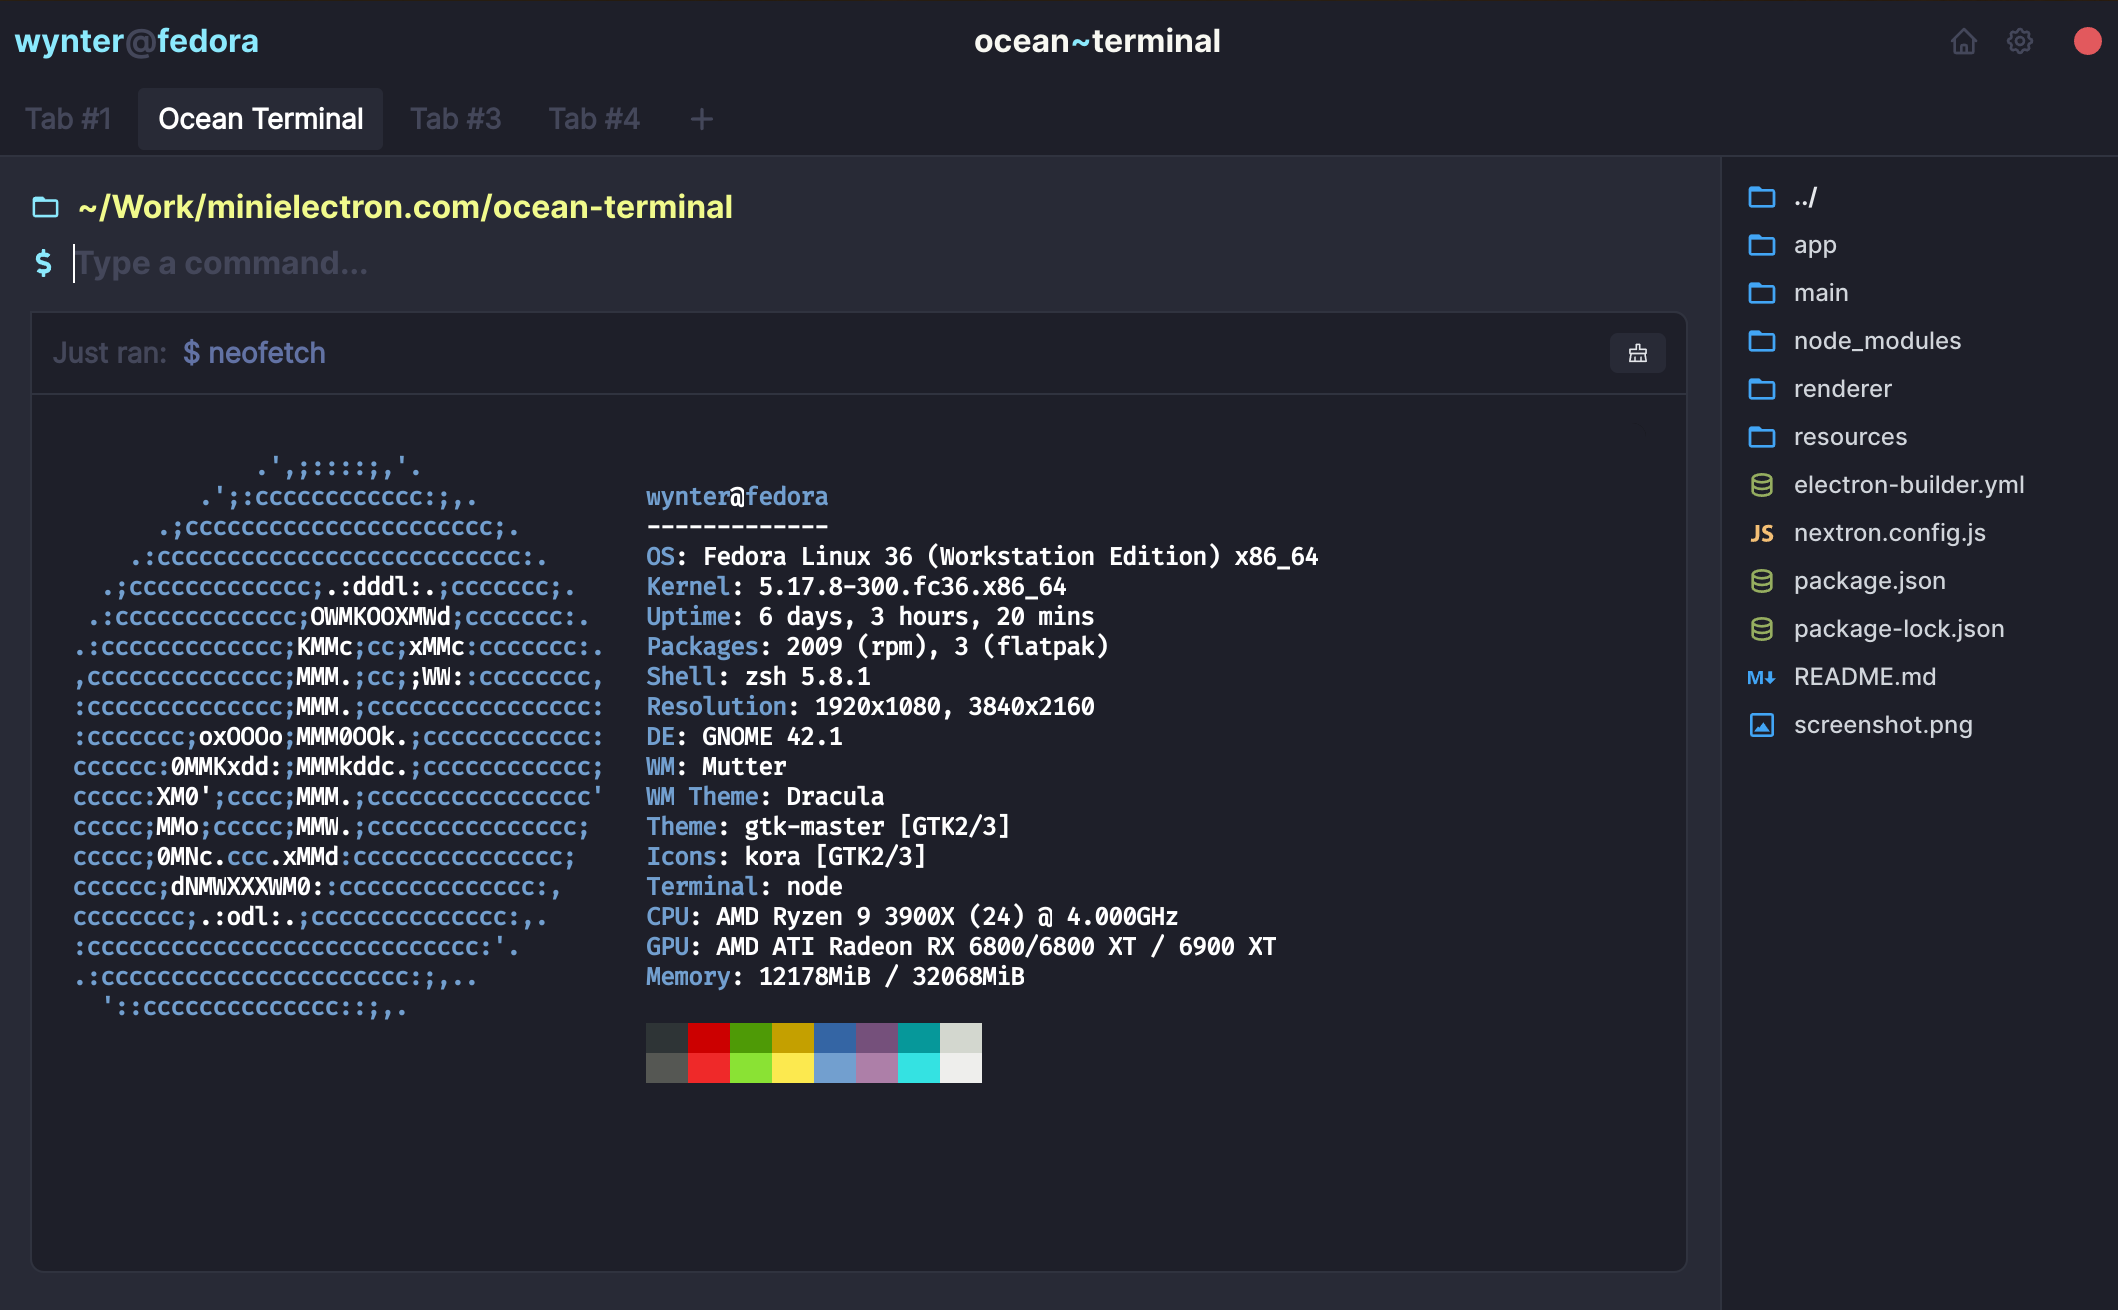
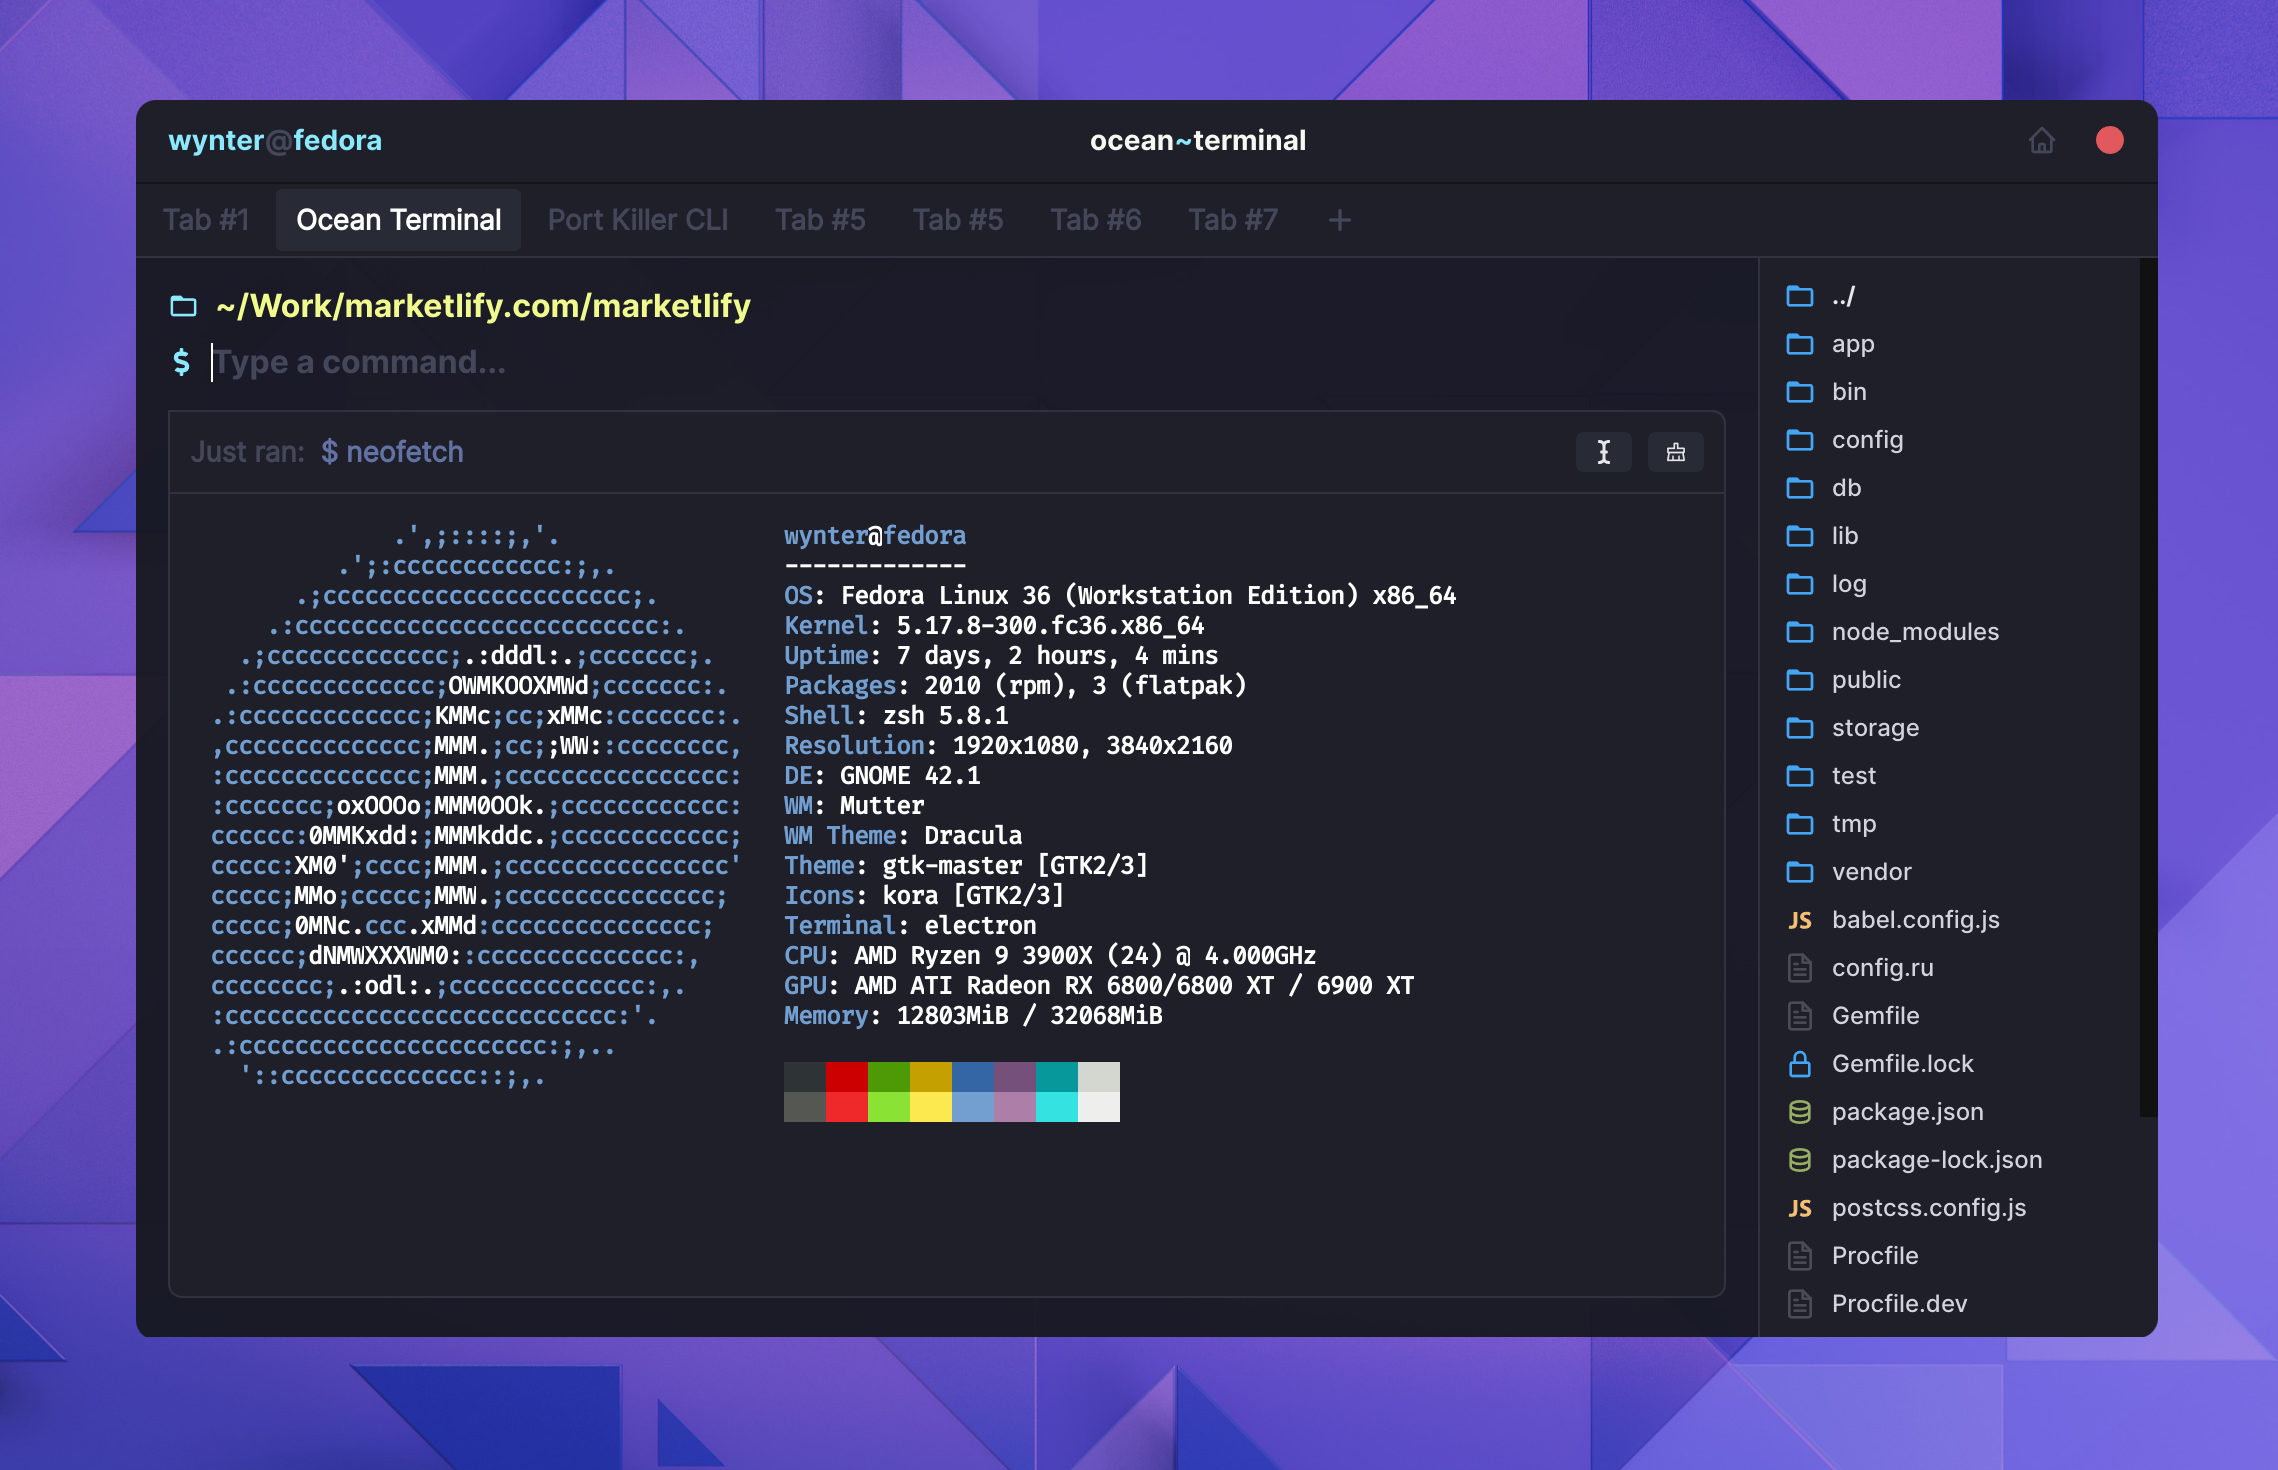
update ui

diff --git a/renderer/pages/tab/[id].jsx b/renderer/pages/tab/[id].jsx
@@ -43,21 +43,23 @@ function Tab() {
     let testTerm = xtermRef.current.terminal
     let testFitAddon = fitAddon
 
-    window.electron.ipcRenderer.on('reply-spawn-pipe', (event, result) => {
-      const systemInfo = window.electron.ipcRenderer.sendSync(
-        'get-username-hostname'
-      )
-      const sysInfo = `[${systemInfo.username}@${systemInfo.hostname}`
+    window.electron.ipcRenderer.send(
+      'terminal.keystroke',
+      `export PS1="$ "\r`,
+      `export PS1="$ "`,
+      !interactive
+    )
 
+    window.electron.ipcRenderer.on('reply-spawn-pipe', (event, result) => {
       let output = result.data
         .replaceAll(`${result.currentCommand}\r\n`, '')
         .replace(`${result.currentCommand}`, '')
 
-      if (output.includes(sysInfo) && result.currentInteractive) {
-        output = output.split(sysInfo)[0]
+      if (output.includes(`$`) && result.currentInteractive) {
+        output = output.replace(`$`, '')
       }
 
-      testTerm.write(output)
+      testTerm.writeUtf8(output)
       testFitAddon.fit()
 
       const id = window.electron.ipcRenderer.sendSync('get-current-tab-id')
@@ -155,10 +157,11 @@ function Tab() {
 
   const setInteractiveMode = () => {
     setInteractive(!interactive)
+    xtermRef.current.terminal.focus()
   }
 
   return (
-    <div className="p-4 pt-3">
+    <div className="p-4 pt-3" id="body">
       <Toolbar />
       <TabNav
         tabs={tabs}
@@ -177,30 +180,30 @@ function Tab() {
         }}
       />
       <CommandLine
+        className={classNames('', {
+          'interactive-mode': interactive,
+        })}
         path={path}
         submitCommand={(event) => {
           submitCommand(event)
         }}
       />
-      <div
-        id="terminalWrapper"
-        className={classNames('relative', {
-          'interactive-mode': interactive,
-        })}
-      >
-        {command && (
-          <TerminalToolbar
-            command={command}
-            interactive={interactive}
-            cleanup={() => {
-              cleanup()
-            }}
-            setInteractiveMode={() => {
-              setInteractiveMode()
-            }}
-          />
-        )}
-        <div className="terminalWrapper">
+      <div id="terminalWrapper" className="relative">
+        <TerminalToolbar
+          command={command}
+          interactive={interactive}
+          cleanup={() => {
+            cleanup()
+          }}
+          setInteractiveMode={() => {
+            setInteractiveMode()
+          }}
+        />
+        <div
+          className={classNames('terminalWrapper', {
+            'interactive-mode': interactive,
+          })}
+        >
           <XTerm
             className="terminal"
             ref={xtermRef}

diff --git a/renderer/styles/globals.css b/renderer/styles/globals.css
@@ -68,17 +68,22 @@ a {
   cursor: default;
 }
 
+html {
+  background: none;
+}
+
 body {
   font-family: InterRegular, -apple-system, BlinkMacSystemFont, 'Segoe UI',
     'Roboto', 'Oxygen', 'Ubuntu', 'Inter', 'Fira Sans', 'Droid Sans',
     'Helvetica Neue', sans-serif;
   -webkit-font-smoothing: antialiased;
   -moz-osx-font-smoothing: grayscale;
-  background: #282a36;
+  background: none;
   color: #f8f8f2;
   padding-top: 79px;
   padding-right: 200px;
   overflow: hidden;
+  border-radius: 14px;
 }
 
 .hover-bg-dracula-semidark:hover {
@@ -130,6 +135,10 @@ body {
   display: block !important;
 }
 
+.interactive-mode.command-line {
+  display: none !important;
+}
+
 #home {
   background: url('/images/home.jpg') no-repeat;
 
@@ -152,12 +161,14 @@ body {
 
 #toolbar {
   background: #1e1f29;
-  border-bottom: 1px solid #1e1f29;
+  border-bottom: 1px solid #1e1f2a;
   position: fixed;
   top: 0;
   left: 0;
   z-index: 99999999;
   width: 100%;
+  border-top-left-radius: 10px;
+  border-top-right-radius: 10px;
 }
 
 #infoPanel-headline {
@@ -166,7 +177,7 @@ body {
 
 #tablist {
   background: #1e1f29;
-  /* border-top: 1px solid #14151a; */
+  border-top: 1px solid #14151a;
   border-bottom: 1px solid #30333f;
   position: fixed;
   top: 41px;
@@ -201,16 +212,22 @@ body {
   z-index: 99999;
   color: #fff;
   overflow-x: hidden;
+  border-bottom-right-radius: 10px;
 }
 
 .terminal {
   width: 100%;
   height: calc(100vh - 195px);
-
   color: #f8f8f2;
   font-size: 14px;
   line-height: 17px;
   white-space: pre;
+}
+
+#body {
+  background: #16171ff1;
+  height: calc(100vh - 78px);
+  border-bottom-left-radius: 10px;
 }
 
 .terminalWrapper {
@@ -229,6 +246,14 @@ body {
   padding-bottom: 40px;
   border: none;
   /* overflow: hidden; */
+}
+
+.terminalWrapper.interactive-mode {
+  height: calc(100vh - 135px) !important;
+}
+
+.terminalWrapper.interactive-mode .terminal {
+  height: calc(100vh - 165px) !important;
 }
 
 #terminalReminder {

diff --git a/renderer/components/CommandLine.jsx b/renderer/components/CommandLine.jsx
@@ -2,7 +2,7 @@ import { useState } from 'react'
 import { MdFolderOpen } from 'react-icons/md'
 import { FaDollarSign } from 'react-icons/fa'
 
-const CommandLine = ({ path, submitCommand }) => {
+const CommandLine = ({ path, submitCommand, className }) => {
   const [inputValue, setInputValue] = useState('')
 
   return (
@@ -13,13 +13,13 @@ const CommandLine = ({ path, submitCommand }) => {
           ~{path}
         </span>
       </h3>
-      <div className="flex items-center font-bold">
+      <div className={`${className} command-line flex items-center font-bold`}>
         <FaDollarSign className="text-dracula-cyan text-sm mr-1" />
         <input
           autoFocus={true}
           placeholder="Type a command..."
           className="w-full bg-gray-900 text-white p-1 font-bold border-transparent"
-          style={{ backgroundColor: '#282a36' }}
+          style={{ backgroundColor: 'rgba(0,0,0,0)' }}
           onKeyPress={(event) => {
             if (event.key === 'Enter') {
               if (event.target.value.trim() !== '') {

diff --git a/renderer/components/Toolbar.jsx b/renderer/components/Toolbar.jsx
@@ -15,15 +15,15 @@ const Toolbar = ({}) => {
 
   return (
     <div id="toolbar">
-      <div className="flex items-center justify-between px-2">
-        <div className="font-bold">
+      <div className="flex items-center justify-between px-4">
+        <div className="font-bold text-sm">
           <span className="text-dracula-cyan">
             {username}
             <span className="text-dracula-gray">@</span>
             {hostname}
           </span>
         </div>
-        <div className="can-drag p-2 flex-1 text-center font-bold">
+        <div className="can-drag p-2.5 flex-1 text-center font-bold text-sm">
           ocean
           <span className="text-dracula-cyan">~</span>terminal
         </div>

diff --git a/main/background.js b/main/background.js
@@ -15,8 +15,8 @@ const isProd = process.env.NODE_ENV === 'production'
 const os = require('os')
 const pty = require('node-pty')
 const shell = os.platform() === 'win32' ? 'powershell.exe' : 'bash'
-const ptyProcess = pty.spawn(shell, [], {
-  name: 'xterm-color',
+const ptyProcess = pty.spawn(shell, ['--noprofile', '--norc'], {
+  name: 'xterm-256color',
   cols: 80,
   rows: 30,
   cwd: process.env.HOME,
@@ -38,6 +38,7 @@ let mainWindow
   mainWindow = createWindow('main', {
     width: 1324,
     height: 928,
+    transparent: true,
     frame: false,
   })
 

diff --git a/main/helpers/ipc/terminal.js b/main/helpers/ipc/terminal.js
@@ -13,6 +13,11 @@ const ipcTerminal = (store, ipcMain) => {
     event.returnValue = result
   })
 
+  ipcMain.on('get-bash-version', async (event, args) => {
+    const result = await exec('echo "$BASH_VERSION"', process.env.HOME, store)
+    event.returnValue = result
+  })
+
   ipcMain.on('exec-command-reply', async (event, args) => {
     const pids = store.get('pids')
     const pid = pids.find((pid) => pid.id === args.id).pid

diff --git a/renderer/components/TerminalToolbar.jsx b/renderer/components/TerminalToolbar.jsx
@@ -15,7 +15,12 @@ const TerminalToolbar = ({
       style={{ zIndex: 999999 }}
     >
       <strong>
-        <span className="text-dracula-gray mr-1">Just ran:</span> $ {command}{' '}
+        {command && (
+          <span>
+            <span className="text-dracula-gray mr-1">Just ran:</span> ${' '}
+            {command}
+          </span>
+        )}
       </strong>
       <div className="flex space-x-2">
         <button
